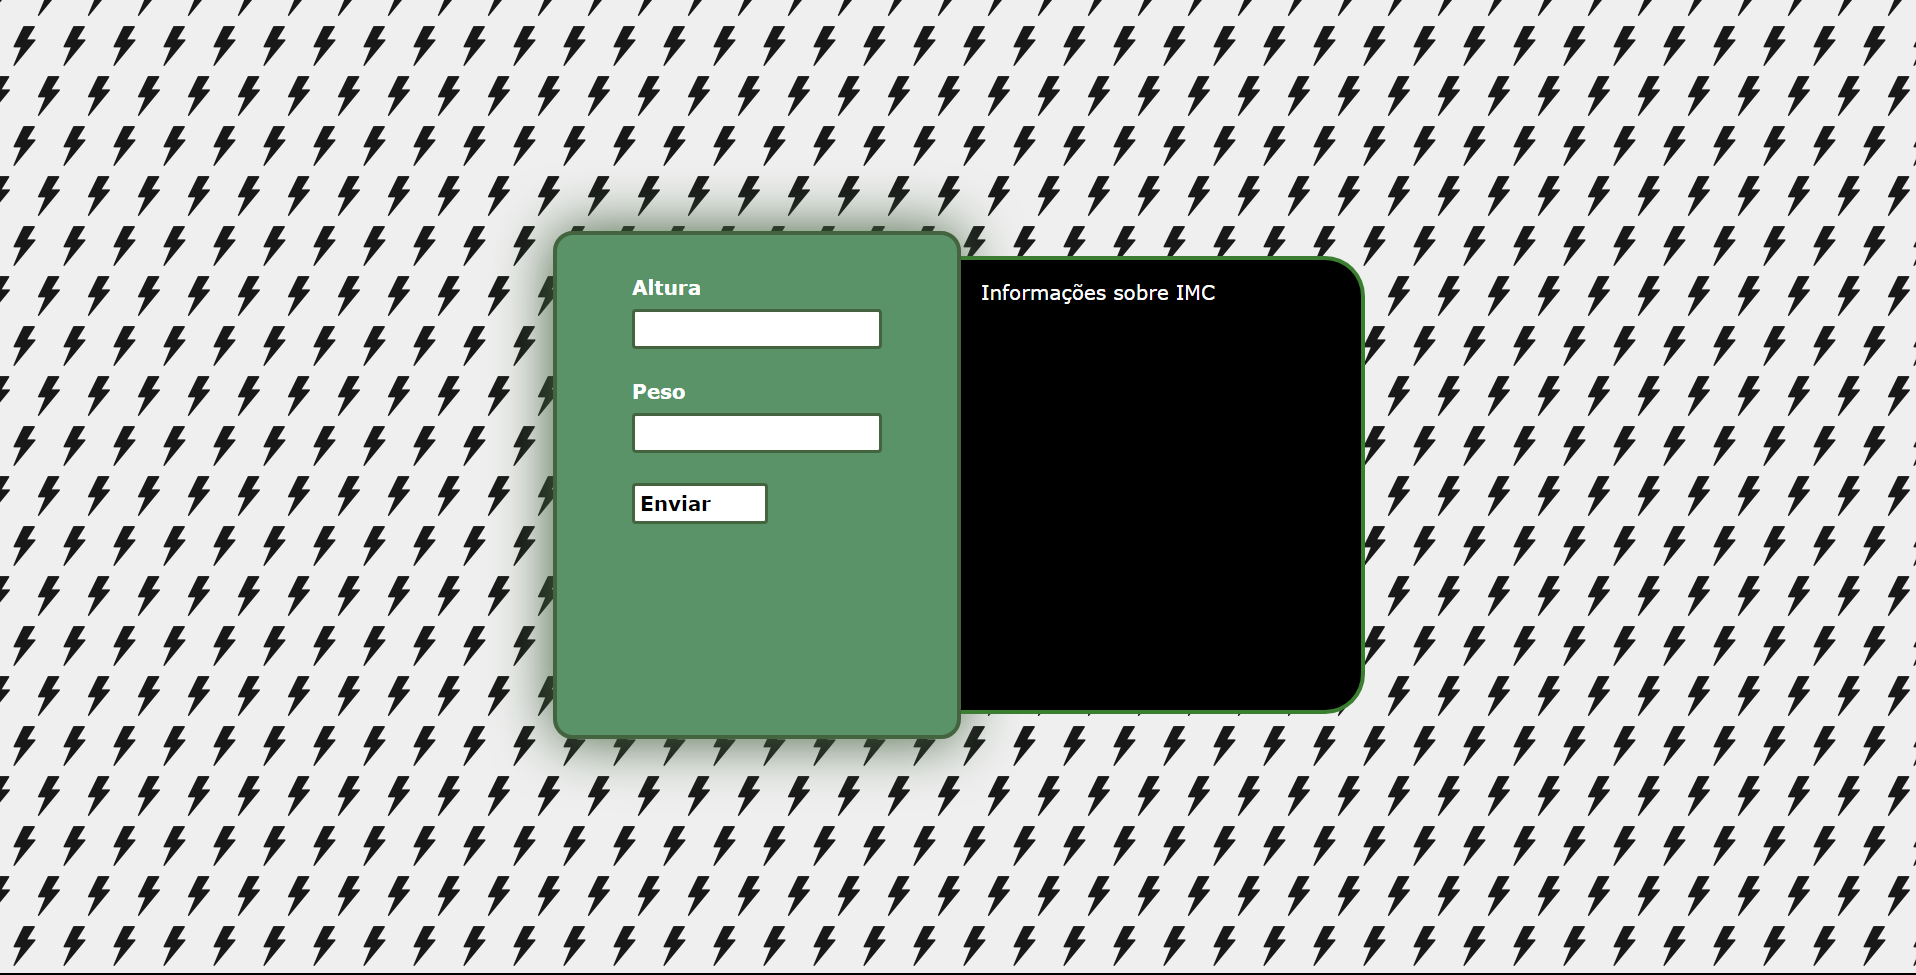
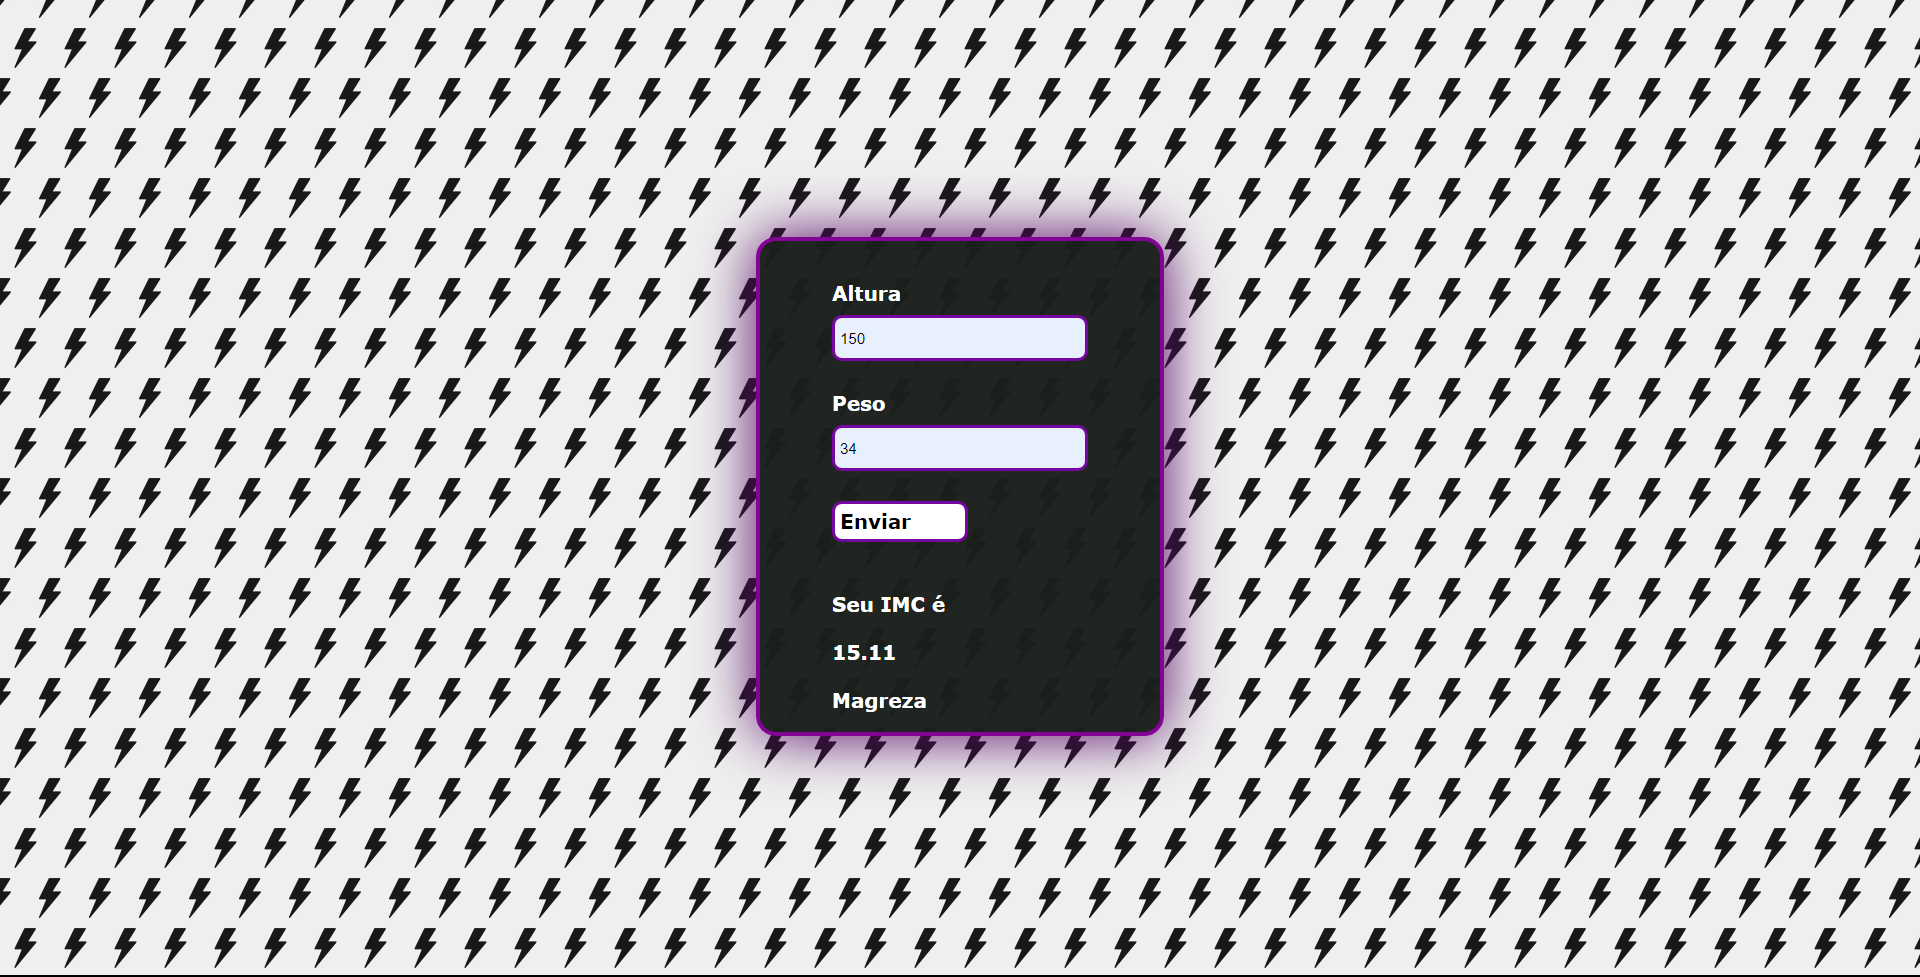
IMC Calculator

diff --git a/css/style.css b/css/style.css
@@ -10,12 +10,12 @@ body{
 #box{
     display: flex;
     justify-content: center;
-    background-color:#5a9367;
-    box-shadow: #44633F 0px 0px 60px;
+    background-color:#1b1f1cf8;
+    box-shadow: #550864 0px 0px 60px;
     width: 400px;
-    height: 500px;
+    height: 50%;
     border-radius: 20px;
-    border: solid #44633F 4px;
+    border: solid #830394 4px;
 }
 #boxS{
     min-height: 100vh;
@@ -27,22 +27,23 @@ body{
 input,#send{
     display: flex;
     outline:0px;
-    border-radius: 4px;
+    border-radius: 10px;
     font-size: 15px;
     background-color: white;
     padding: 2px;
-    border: solid #44633F 3px;
+    border: solid #7707a3 3px;
 
 }
 #send:hover{
     cursor: pointer;
-    box-shadow: #44633F 0px 0px 60px;
+    box-shadow: #5e6b5b 0px 0px 60px;
 }
 input[type="text"],input[type="number"]{
     width: 240px;
     height: 30px;
     margin-bottom: 30px;
     margin-top: 10px;
+    padding: 5px;
 }
 #send{
     font-size: 20px;
@@ -61,32 +62,10 @@ form{
     
 }
 span{
-    font-size: 20px;
-}
-
-#info{
-    display: flex;
-    background-color: black;
-    width: 400px;
-    height: 450px;
-
-    border-top: #3b7e31 solid 4px;
-    border-right: #3b7e31 solid 4px;
-    border-bottom: #3b7e31 solid 4px;
-    border-radius: 0px 40px 40px 0px;
     
+    font-size: 20px;
 }
 .txt{
-    display: flex;
-    justify-content: center;
-    font-size: 20px;
-    margin-left: 20px;
-    color: white;
-    
-}
-#sobre{
-    position: relative;
-    top: 120px;
-    right: 250px;
-    margin-left: 70px;
+    top: 100px;
+    margin-bottom: 20px;
 }

diff --git a/index.html b/index.html
@@ -17,16 +17,12 @@
                 Peso <input type="number" name="peso" id="weight" maxlength="4">
             
                     <div id="send" onclick="verificar()"> Enviar </div>
-                <span id="xxx"></span><br><br>
-
-                <span id="result"></span><br>
-            </form>
-            
+                    <div class="txt">
+                        <span id="xxx"></span><br><br>
+                        <span id="result"></span><br><br>
+                   <span id="sobre"></span></div>
+            </form>  
         </div>  
-        <div id="info">
-            <p class="txt">Informações sobre IMC</p>
-            <span class="txt" id="sobre"></span>
-        </div>
     </div>
         
 

diff --git a/README.md b/README.md
@@ -2,7 +2,7 @@
 <hr>
 
 Um dos meus primeiros projetos "solo" simples e prático, estou criando familiaridade com a sintaxe do JS.
-Pretendo deixar responsivo pra tela menores e diminuir esse código do CSS
+- Responsivo.
 - HTML, CSS e JS
 
 <img src="css/x.png">
